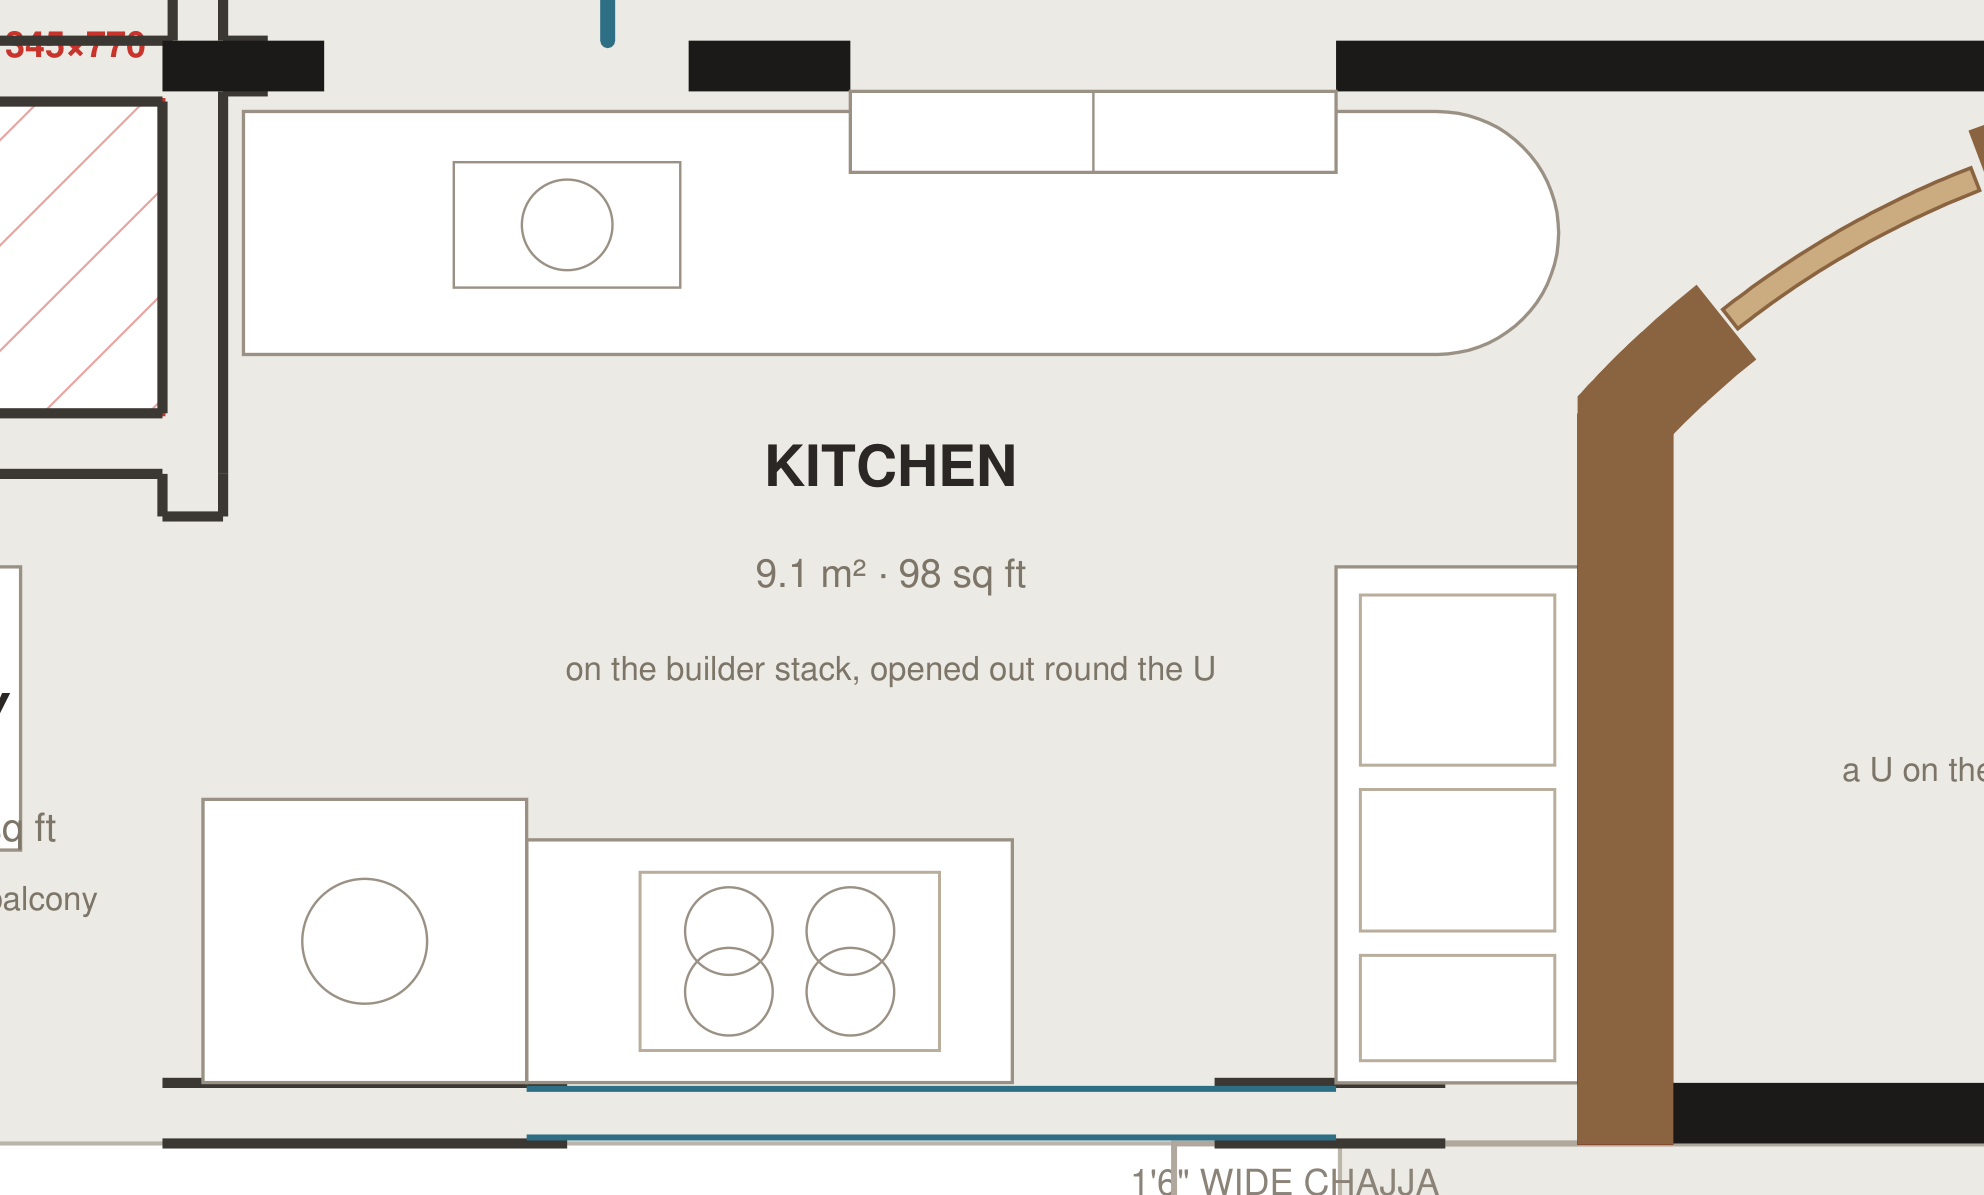
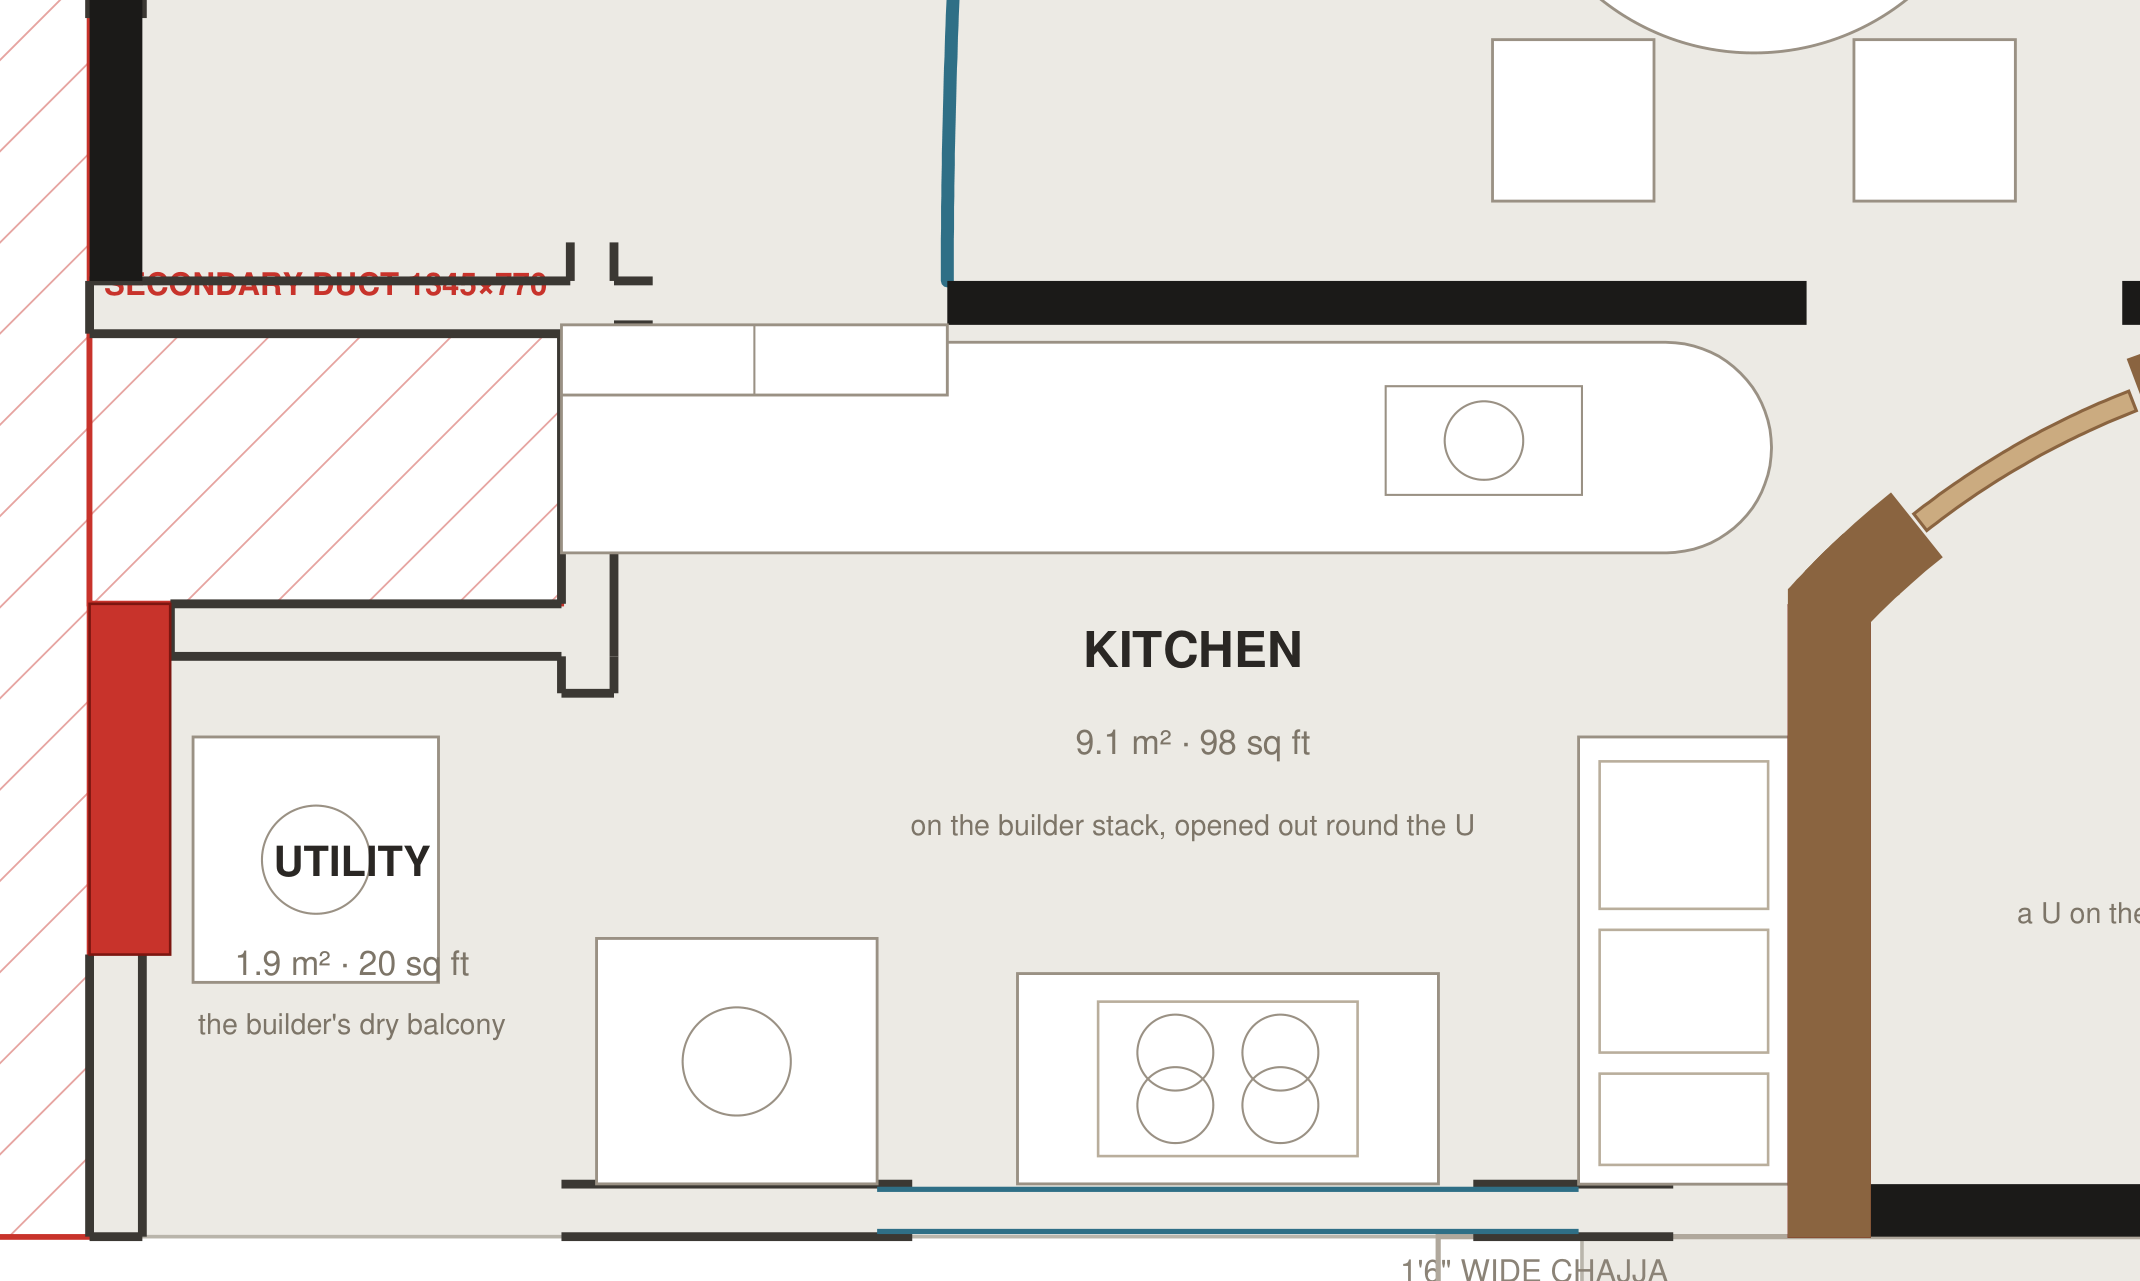
CAD (WIP, not yet approved): hob centred, sink east, hatch west on to the pod
Preview only — the DXF is NOT rebuilt and is still the last approved version.

* the hob run centres on the window: X 8200-9400 against the window's
  7800-9800, which leaves exactly 400 clear to the fridge on one side and 400
  to the appliance corner on the other
* the sink moves to the east end of run B, X 9250-9810, just short of the
  bullnose
* the serving hatch moves to the west end, X 6900-8000, so it opens into the
  parents' pod ready for the dining table.  Run B is extended west to 6900 to
  carry it
* the kitchen door off the great room moves east to X 10450-11350.  It had to:
  with the hatch at the west end, the only stretch of that wall not backed by
  600 of counter is east of the run, and a door cannot open on to a worktop

The dining table is still in the great room — moving it is the next step.

verify.py: all checks pass.

Claude-Session: https://claude.ai/code/session_01HE1ZiZE53Xo6n73hYxijkS

diff --git a/CAD/tools/design.py b/CAD/tools/design.py
@@ -120,7 +120,7 @@ NEW_WALLS = [
     # --- service bay, north wall: great room / pods above, service bay below.
     #     Broken either side of the 1050 door into the entry gallery.  The
     #     kitchen door, the serving hatch and help's room door are gaps in it.
-    (6900, 8462.5, 11715, 8462.5, 125, [(400, 1300), (1700, 2900)]),
+    (6900, 8462.5, 11715, 8462.5, 125, [(0, 1100), (3550, 4450)]),
     (12765, 8462.5, 17580, 8462.5, 125, [(1935, 2835)]),
 
     # --- service bay
@@ -258,14 +258,16 @@ _ONCE = [
     # kitchen.
     ('dining',   9600, 6350, 11000, 7750, 'round 1400 dia, seats 6'),
     # ------------------------------------------------------------- kitchen
-    ('counter-re', 7100, 8575, 10350, 9175,
+    ('counter-re', 6900, 8575, 10350, 9175,
      'run B  ·  600 deep, end rounded off for the entry door'),
-    ('sink',     7620, 8700, 8180, 9010, ''),
-    ('shelves',  8600, 8525, 9800, 8725, 'hatch shelf, deepened into the kitchen'),
+    ('sink',     9250, 8700, 9810, 9010, 'sink, east end'),
+    ('shelves',  6900, 8525, 8000, 8725,
+     'serving hatch, 1100 — opens into the parents pod'),
     # --- the window run: hob only, integrated dishwasher under it
-    ('counter',  7800, 10375, 9000, 10975, 'hob counter at the window  ·  600 deep'),
-    ('under',    8080, 10455, 8820, 10895, 'integrated dishwasher, under the hob'),
-    ('hob',      8150, 10525, 8750, 10825, ''),
+    ('counter',  8200, 10375, 9400, 10975,
+     'hob counter  ·  centred on the window, 400 clear each side'),
+    ('under',    8430, 10455, 9170, 10895, 'integrated dishwasher, under the hob'),
+    ('hob',      8500, 10525, 9100, 10825, ''),
     # --- the fridge, west of the hob run, flush with the wall.  It sits clear
     #     of the window, which starts at 7800, so nothing stands in front of it.
     ('appliance', 7000, 10275, 7800, 10975, 'fridge  ·  flush with the wall'),
